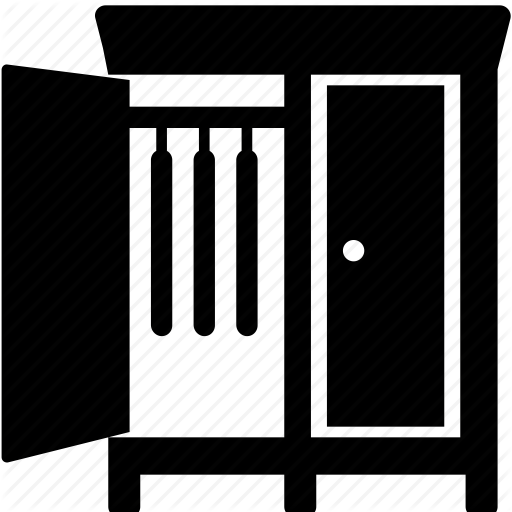
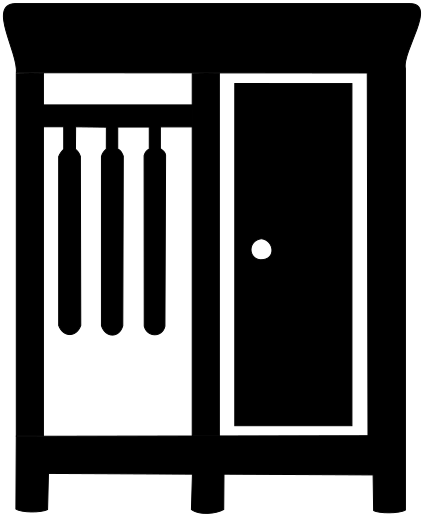
Boton de ocnfiguracion corregido, Iconos cambiados

diff --git a/src/Vistas/MenuView.js b/src/Vistas/MenuView.js
@@ -54,13 +54,13 @@ import firebase from 'firebase'
               <View style={styles.s41ccc30f}>
                 <TouchableOpacity onPress={this.onPressCloset}>
                   <Image source={require("./images/closet_icon.png")} style={styles.s98059f0a} />
-                  <Text style={styles.sda221942}> CLOSET</Text>
+                  <Text style={styles.sda221942}>CLOSET</Text>
                 </TouchableOpacity>
               </View>
               <View style={styles.sf3785ddd}>
                 <TouchableOpacity onPress={this.onPressSets}>
                   <Image source={require("./images/sets_icon.png")} style={styles.s8f443a62} />
-                  <Text style={styles.s73b11ae0}>     SETS</Text>
+                  <Text style={styles.s73b11ae0}>CONJUNTOS</Text>
                 </TouchableOpacity>
               </View>
             </View>
@@ -69,24 +69,31 @@ import firebase from 'firebase'
               <View style={styles.s317ff90f}>
                 <TouchableOpacity onPress={this.onPressLaundry}>
                   <Image source={require("./images/laundry_icon.png")} style={styles.sfc68a166} />
-                  <Text style={styles.sedb32a67}> LAUNDRY</Text>
+                  <Text style={styles.sedb32a67}>LAUNDRY</Text>
                 </TouchableOpacity>
               </View>
               <View style={styles.s444f37d1}>
                 <TouchableOpacity onPress={this.onPressMissing}>
                   <Image source={require("./images/socks_icon.png")} style={styles.sc36b1c8e} />
-                  <Text style={styles.s8c9efc64}> MISSING</Text>
+                  <Text style={styles.s8c9efc64}>MISSING</Text>
                 </TouchableOpacity>
               </View>
             </View>
               <View style={[styles.s923b1cd6, { flexDirection: "row" }]}>
                 <View style={styles.s617c1fc1} />
                 <View style={styles.s4d5fab9b}>
-                  <TouchableWithoutFeedback onPress={this.onPressLogOut}>
-                    <Image source={require("./images/Captura.png")} style={styles.sb6e3e2b9} />
-                  </TouchableWithoutFeedback>
-                  <View style={styles.s97acb6cf}>
-                    <Image style={styles.s0d2109e8} />
+                  <View style={{flex:1, flexDirection: "row" }}>
+                    <View style={{flex:1,backgroundColor: `rgba(48, 204, 108, 1)`}}>
+                      <View  style={{flex:1,backgroundColor: `rgba(33, 33, 33, 1)`,borderTopLeftRadius:50}}/>
+                    </View>
+                    <View style={{    justifyContent: 'center',  alignItems: 'center',flex:2}}>
+                      <TouchableOpacity onPress={this.onPressLogOut}>
+                        <Icon  style={{ color: "#ffffff",fontSize:40 }} type="FontAwesome" name='cog'/>
+                      </TouchableOpacity>
+                    </View>
+                    <View style={{flex:1,backgroundColor: `rgba(213, 56, 36, 1)`}}>
+                      <View  style={{flex:1,backgroundColor: `rgba(33, 33, 33, 1)`,borderTopRightRadius:50}}/>
+                    </View>
                   </View>
                 </View>
                 <View style={styles.sb6315268} />
@@ -113,11 +120,11 @@ function mapDispatchToProps(dispatch){
 export default connect(mapStateToProps,mapDispatchToProps)(MenuView);
 
 const styles = StyleSheet.create({
-  s98059f0a: { height: 100, width: 100 },
+  s98059f0a: { height: 100, width: 100, resizeMode: 'contain' },
   sda221942: {
     backgroundColor: `rgba(224, 223, 235, 0)`,
     color: `rgba(255, 255, 255, 1)`,
-    fontSize: 20,
+    fontSize: 15,
     textAlign: 'center' ,
     fontWeight: `bold`
   },
@@ -131,11 +138,12 @@ const styles = StyleSheet.create({
     flex: 1,
     justifyContent: `center`
   },
-  s8f443a62: { height: 100, width: 100 },
+  s8f443a62: { height: 100, width: 100,resizeMode: 'contain' },
   s73b11ae0: {
     color: `rgba(255, 255, 255, 1)`,
-    fontSize: 20,
-    fontWeight: `bold`
+    fontSize: 15,
+    textAlign: 'center',
+    fontWeight: `bold`,
   },
   sf3785ddd: {
     alignItems: `center`,
@@ -200,11 +208,12 @@ const styles = StyleSheet.create({
     justifyContent: `space-evenly`,
     opacity: 1
   },
-  sfc68a166: { height: 100, width: 100 },
+  sfc68a166: { height: 100, width: 100, resizeMode:'contain' },
   sedb32a67: {
     color: `rgba(255, 255, 255, 1)`,
-    fontSize: 20,
-    fontWeight: `bold`
+    fontSize: 15,
+    fontWeight: `bold`,
+    textAlign: 'center',
   },
   s317ff90f: {
     alignItems: `center`,
@@ -215,11 +224,12 @@ const styles = StyleSheet.create({
     flex: 1,
     justifyContent: `center`
   },
-  sc36b1c8e: { height: 100, width: 100 },
+  sc36b1c8e: { height: 100, width: 100, resizeMode:'contain' },
   s8c9efc64: {
     color: `rgba(255, 255, 255, 1)`,
-    fontSize: 20,
-    fontWeight: `bold`
+    fontSize: 15,
+    fontWeight: `bold`,
+    textAlign: 'center',
   },
   s444f37d1: {
     alignItems: `center`,
@@ -241,10 +251,10 @@ const styles = StyleSheet.create({
   s0d2109e8: { height: 100, width: 100 },
   s97acb6cf: { flex: 1 },
   s4d5fab9b: {
-    backgroundColor: `rgba(33, 33, 33, 0.89)`,
-    borderTopLeftRadius: 50,
-    borderTopRightRadius: 50,
-    flex: 2
+    backgroundColor: `rgba(33, 33, 33, 1)`,
+    borderTopLeftRadius: 0,
+    borderTopRightRadius: 0,
+    flex: 2,
   },
   sb6315268: {
     backgroundColor: `rgba(213, 56, 36, 1)`,
@@ -252,7 +262,7 @@ const styles = StyleSheet.create({
     borderRightWidth: 2,
     flex: 1
   },
-  s923b1cd6: { backgroundColor: `rgba(255, 255, 255, 1)`, flex: 0.3 },
+  s923b1cd6: { backgroundColor: `rgba(0, 0, 0, 1)`, flex: 0.3 },
   s8ab8b2a6: {
     backgroundColor: `rgba(0, 0, 0,1)`,
     borderWidth: 2,

diff --git a/src/Componentes/SwipeableListView.js b/src/Componentes/SwipeableListView.js
@@ -87,11 +87,11 @@ export default class SwipeableListView extends Component {
               </ListItem>}
             renderLeftHiddenRow={(data, secId, rowId, rowMap) =>
               <Button full onPress={() => this.onPressL(secId, rowId, rowMap)}  style={{backgroundColor: this.props.btnLBkgColor}}>
-                <Image source={this.props.UrlImageL} style={{ height: 50, width: 50 }} />
+                <Image source={this.props.UrlImageL} style={{ height: 50, width: 50,resizeMode: 'contain' }} />
               </Button>}
             renderRightHiddenRow={(data, secId, rowId, rowMap) =>
               <Button full onPress={() => this.onPressR(secId, rowId, rowMap)} style={{backgroundColor: this.props.btnRBkgColor}}>
-                <Image source={this.props.UrlImageR} style={{ height: 50, width: 50 }} />
+                <Image source={this.props.UrlImageR} style={{ height: 50, width: 50,resizeMode: 'contain' }} />
               </Button>}
           />
         </Content>

diff --git a/src/Vistas/AccManagementView.js b/src/Vistas/AccManagementView.js
@@ -38,7 +38,8 @@ export default class AccManagementView extends Component {
   render() {
     return (
       <Container>
-        <Header>
+        <Header style={{backgroundColor: "#003459"}}>
+          <StatusBar backgroundColor={"#003459"} barStyle="light-content"/>
           <Left>
             <Button onPress={this.onButtonBackPress} transparent>
               <Icon name='arrow-back' />
